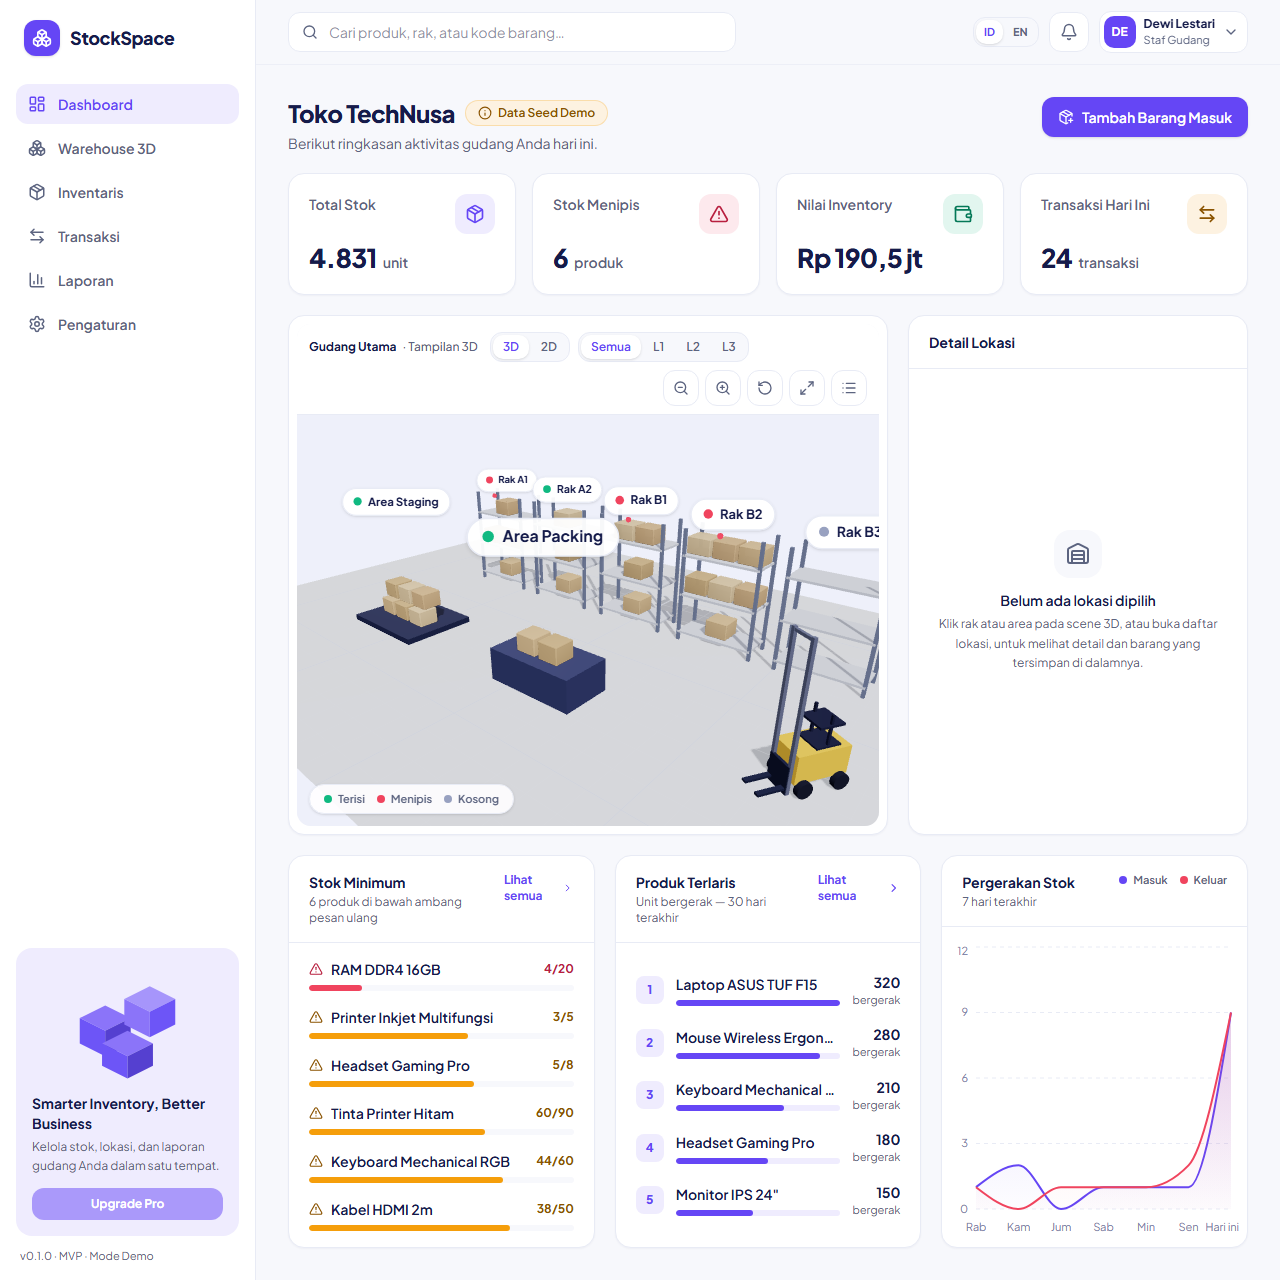
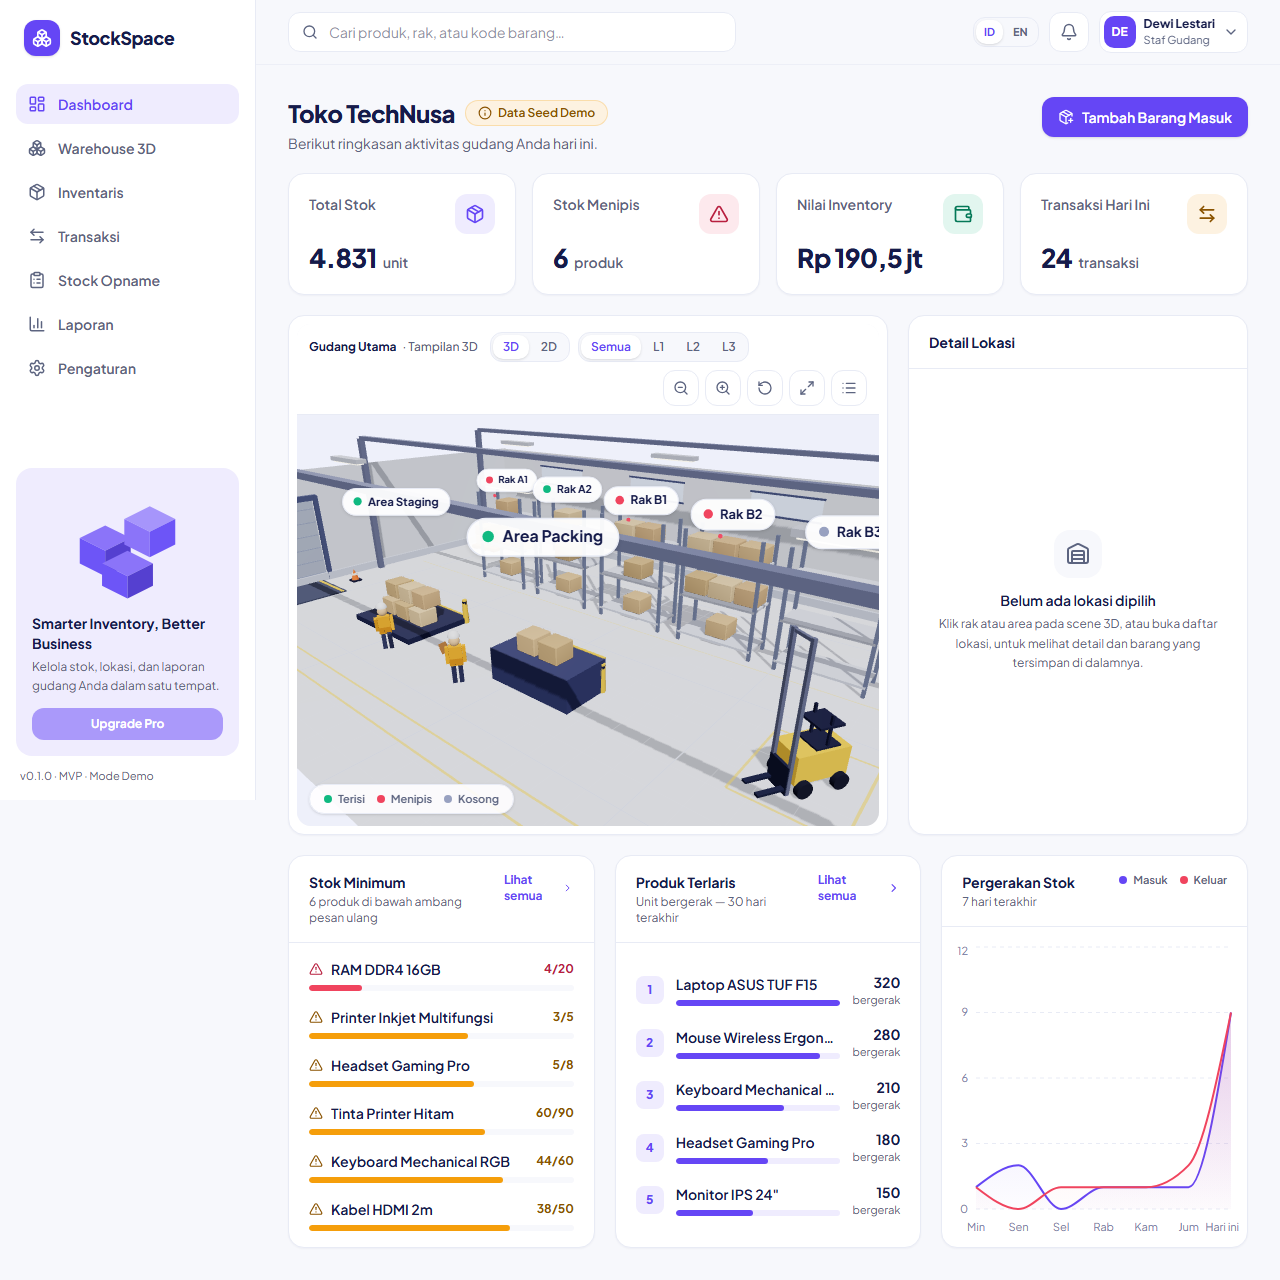
docs: refresh demo GIF and gallery for the latest UI
- Demo GIF re-recorded from the live demo: now shows the inhabited
  warehouse (set dressing + NPC workers), fly-to focus with rack
  dimming, stock-in with the forklift delivery, the stock opname flow,
  the restock proposal, and the suppliers card (32s, 720px, 6 MB)
- Gallery gains stock opname and reports screenshots; all PNGs
  re-captured against the live demo

diff --git a/apps/web/e2e/record-demo.spec.ts b/apps/web/e2e/record-demo.spec.ts
@@ -1,0 +1,80 @@
+import { expect, test } from '@playwright/test'
+
+test.skip(!!process.env.CI, 'recording spec — local only')
+
+/**
+ * One-off recorder for the README demo GIF (live demo on GitHub Pages).
+ * Flow: login → dashboard (3D + dressing + NPCs) → warehouse fly-to focus →
+ * stock-in form → forklift delivery replay → stock opname → restock report →
+ * suppliers card.
+ */
+test('record demo gif', async ({ page }) => {
+  // suppress the onboarding tour for a clean recording
+  await page.addInitScript(() => localStorage.setItem('stockspace.tourDone', '1'))
+
+  // 1. login
+  await page.goto('/StockSpace/', { waitUntil: 'networkidle' })
+  await page.waitForTimeout(600)
+  await page.getByLabel('Email').fill('dewi@technusa.example')
+  await page.getByLabel('Password').fill('stockspace-demo')
+  await page.getByRole('button', { name: 'Masuk' }).click()
+  await expect(page.getByText('Total Stok')).toBeVisible({ timeout: 20000 })
+  await page.waitForTimeout(2200) // let the 3D scene + NPCs settle
+
+  // 2. warehouse: select a rack → fly-to + dimming showcase
+  await page.getByRole('link', { name: 'Warehouse 3D' }).click()
+  await page.waitForTimeout(2200)
+  await page.mouse.move(640, 420)
+  await page.mouse.down()
+  await page.mouse.move(740, 380, { steps: 20 })
+  await page.mouse.up()
+  await page.waitForTimeout(600)
+  const label = page.getByRole('button', { name: 'Rak A1' }).first()
+  await label.click()
+  await page.waitForTimeout(1800) // fly-to glide + rack pulse
+
+  // 3. stock-in form → submit (delivery replays in the warehouse after)
+  await page.getByRole('link', { name: 'Transaksi' }).click()
+  await page.getByRole('tab', { name: 'Barang Masuk' }).click()
+  const productSelect = page.getByRole('combobox', { name: /Produk/ })
+  await productSelect.waitFor()
+  const productValue = await productSelect
+    .locator('option', { hasText: 'Mouse Wireless Ergonomis' })
+    .getAttribute('value')
+  await productSelect.selectOption(productValue!)
+  const destinationSelect = page.getByRole('combobox', { name: /Lokasi Tujuan/ })
+  const destinationValue = await destinationSelect
+    .locator('option', { hasText: 'Rak A1' })
+    .getAttribute('value')
+  await destinationSelect.selectOption(destinationValue!)
+  await page.getByRole('spinbutton', { name: /^Jumlah/ }).fill('7')
+  await page.waitForTimeout(300)
+  await page.getByRole('button', { name: 'Catat Barang Masuk' }).click()
+  await expect(page.getByText(/Transaksi berhasil dicatat/)).toBeVisible()
+  await page.waitForTimeout(700)
+
+  // 4. watch the forklift deliver the box on the warehouse page
+  await page.getByRole('link', { name: 'Warehouse 3D' }).click()
+  await page.waitForTimeout(2200)
+
+  // 5. stock opname page
+  await page.getByRole('link', { name: 'Stock Opname' }).click()
+  await page.waitForTimeout(700)
+
+  // 6. reports: restock proposal
+  await page.getByRole('link', { name: 'Laporan' }).click()
+  await expect(page.getByRole('heading', { name: 'Usulan Pesanan Ulang' })).toBeVisible({
+    timeout: 15000,
+  })
+  await page.waitForTimeout(900)
+
+  // 7. settings: suppliers card
+  await page.getByRole('link', { name: 'Pengaturan' }).click()
+  await expect(page.getByText('Kelola Supplier')).toBeVisible({ timeout: 15000 })
+  await page.waitForTimeout(800)
+
+  // 8. back to dashboard to close
+  await page.getByRole('link', { name: 'Dashboard', exact: true }).click()
+  await expect(page.getByText('Total Stok')).toBeVisible()
+  await page.waitForTimeout(1200)
+})

diff --git a/apps/web/e2e/capture-shots.spec.ts b/apps/web/e2e/capture-shots.spec.ts
@@ -1,0 +1,52 @@
+import { expect, test } from '@playwright/test'
+
+test.skip(!!process.env.CI, 'screenshot capture — local only')
+
+test.use({ video: { mode: 'off' } })
+
+const OUT = '../../docs/screenshots'
+
+test('capture gallery screenshots', async ({ page }) => {
+  test.setTimeout(180_000)
+  await page.addInitScript(() => localStorage.setItem('stockspace.tourDone', '1'))
+  await page.setViewportSize({ width: 1280, height: 800 })
+
+  await page.goto('/StockSpace/', { waitUntil: 'networkidle' })
+  await page.waitForTimeout(500)
+  await page.screenshot({ path: `${OUT}/login.png` })
+
+  await page.getByLabel('Email').fill('dewi@technusa.example')
+  await page.getByLabel('Password').fill('stockspace-demo')
+  await page.getByRole('button', { name: 'Masuk' }).click()
+  await expect(page.getByText('Total Stok')).toBeVisible({ timeout: 20000 })
+  await page.waitForTimeout(2500) // 3D + NPCs settle
+  await page.screenshot({ path: `${OUT}/dashboard.png`, fullPage: true })
+
+  await page.getByRole('link', { name: 'Warehouse 3D' }).click()
+  await page.waitForTimeout(2200)
+  const label = page.getByRole('button', { name: 'Rak A1' }).first()
+  await label.click()
+  await page.waitForTimeout(1800) // fly-to + dimming settle
+  await page.screenshot({ path: `${OUT}/warehouse.png` })
+
+  await page.getByRole('link', { name: 'Inventaris' }).click()
+  await expect(page.getByRole('table')).toBeVisible()
+  await page.screenshot({ path: `${OUT}/inventory.png`, fullPage: true })
+
+  await page.getByRole('link', { name: 'Stock Opname' }).click()
+  await page.getByRole('button', { name: 'Mulai Stock Opname' }).click()
+  await page.getByRole('button', { name: 'Buat', exact: true }).click()
+  await expect(page.getByText(/Terhitung/)).toBeVisible({ timeout: 15000 })
+  const firstInput = page.getByRole('spinbutton').first()
+  await firstInput.fill('5')
+  await firstInput.blur()
+  await page.waitForTimeout(400)
+  await page.screenshot({ path: `${OUT}/stocktakes.png` })
+
+  await page.getByRole('link', { name: 'Laporan' }).click()
+  await expect(page.getByRole('heading', { name: 'Usulan Pesanan Ulang' })).toBeVisible({
+    timeout: 15000,
+  })
+  await page.waitForTimeout(800)
+  await page.screenshot({ path: `${OUT}/reports.png`, fullPage: true })
+})

diff --git a/apps/web/recorder.config.ts b/apps/web/recorder.config.ts
@@ -1,0 +1,13 @@
+import { defineConfig } from '@playwright/test'
+
+/** Minimal recorder config — targets the LIVE demo, no local servers needed. */
+export default defineConfig({
+  testDir: './e2e',
+  testMatch: /record-demo|capture-shots/,
+  timeout: 180_000,
+  use: {
+    baseURL: 'https://zann06.github.io/StockSpace/',
+    viewport: { width: 1280, height: 800 },
+    video: { mode: 'on', size: { width: 1280, height: 800 } },
+  },
+})

diff --git a/README.md b/README.md
@@ -28,11 +28,12 @@ box to its rack, and see the dashboard update:
 | | |
 | --- | --- |
 | ![Dashboard](docs/screenshots/dashboard.png) | ![Warehouse 3D](docs/screenshots/warehouse.png) |
-| ![Inventory](docs/screenshots/inventory.png) | ![Login](docs/screenshots/login.png) |
+| ![Inventory](docs/screenshots/inventory.png) | ![Stock opname](docs/screenshots/stocktakes.png) |
+| ![Reports](docs/screenshots/reports.png) | ![Login](docs/screenshots/login.png) |
 
-*Captured with Playwright from the running app (dashboard, and Warehouse 3D with
-Rak A2 selected); the UI is built as real React components following
-`design-reference.png`.*
+*Captured with Playwright against the live demo (Warehouse 3D shows the
+fly-to focus on Rak A1 with the other racks dimmed); the UI is built as real
+React components following `design-reference.png`.*
 
 ## Features
 
